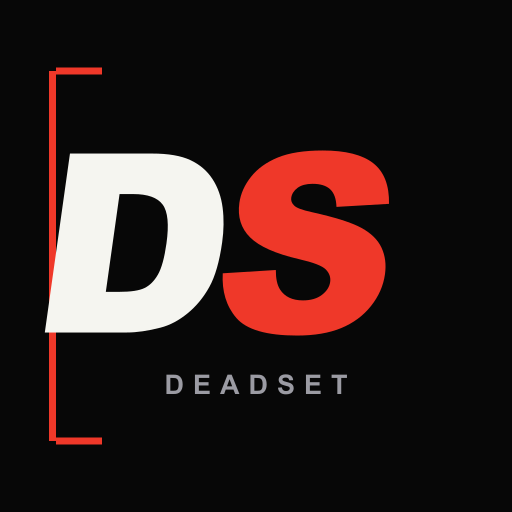
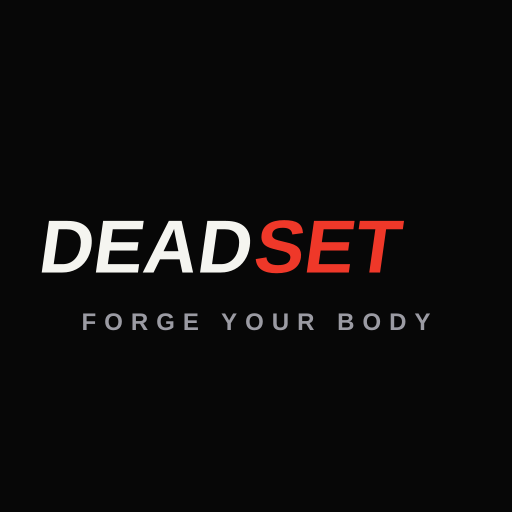
Replace the DS monogram in-app and animate the launch
The monogram was still everywhere the app is actually seen — only the
App Store listing had been switched back.

Loading screen
- index.html embedded the DS monogram as a base64 PNG, so it was the
  first thing shown on every launch. Replaced with the DEADSET wordmark
  drawn as live text: sharp at any size, no image bytes on the critical
  path, and animatable.
- The two halves slide in from opposite sides, the tagline rises behind
  them, then the mark settles into a slow glow. Set in system-ui, not a
  webfont, so it renders before anything has loaded — an earlier attempt
  used Impact, which iOS does not ship.
- prefers-reduced-motion now also resets opacity and transform. Killing
  only the animation would have left the logo permanently invisible,
  since the entrance animation is what reveals it.

Native launch screen
- The iOS splash was still Capacitor's stock blue X on white, in a
  black app. Replaced with a branded dark splash from a new
  generate-splash.mjs.
- The storyboard background was systemBackgroundColor, which resolves to
  pure white in light mode and flashed white on launch. Pinned to
  #0a0a0a so the handover to the animated boot screen is seamless.

Icons
- apple-touch-icon, icon-192 and icon-512 now carry the wordmark: these
  are the home-screen tile, which is "the app". The 16/32/48 favicons
  keep the monogram, where a wordmark collapses into a smudge.
- The App Store icon is left byte-identical to the restored original.
[…]

Changed region(s): [[0.0625, 0.125, 0.8438, 0.875], [0.3125, 0.7188, 0.625, 0.7812], [0.6562, 0.7188, 0.6875, 0.7812]]

diff --git a/index.html b/index.html
@@ -50,10 +50,12 @@
     />
     <style>
       /* Boot screen. Inline on purpose: it must paint before any stylesheet,
-         webfont or module has loaded, since those are exactly what can fail. The
-         mark is a data URI for the same reason — no request, no dependency. It
-         also avoids the wordmark being typeset in a font the device may not have
-         (the previous version asked for Impact, which iOS does not ship). */
+         webfont or module has loaded, since those are exactly what can fail.
+         The wordmark is set in system-ui rather than a webfont for the same
+         reason — no request, no dependency, and it renders identically whether
+         or not Inter has arrived. An earlier version asked for Impact, which
+         iOS does not ship; the stack below ends in the platform sans, so there
+         is always a real face to fall back to. */
       .boot {
         min-height: 100vh;
         min-height: 100dvh;
@@ -69,13 +71,65 @@
         padding: 24px;
         text-align: center;
       }
+      /* The wordmark is drawn as live text rather than a bitmap: it stays sharp
+         on every display, animates per-half, and costs no image bytes on the
+         critical path. */
       .boot-mark {
-        width: 88px;
-        height: 88px;
         display: block;
         margin: 0 auto;
-        border-radius: 20px;
-        animation: boot-breathe 2.4s ease-in-out infinite;
+        font-family:
+          Inter,
+          system-ui,
+          -apple-system,
+          sans-serif;
+        font-size: clamp(38px, 13vw, 62px);
+        font-weight: 900;
+        font-style: italic;
+        letter-spacing: -0.03em;
+        line-height: 1;
+        white-space: nowrap;
+        animation: boot-breathe 2.8s ease-in-out 0.9s infinite;
+      }
+      .boot-mark span {
+        display: inline-block;
+        opacity: 0;
+        animation: boot-slide 0.62s cubic-bezier(0.16, 0.84, 0.44, 1) forwards;
+      }
+      .boot-dead {
+        color: #f5f5f0;
+        transform: translateX(-26px);
+      }
+      .boot-set {
+        color: #e10600;
+        transform: translateX(26px);
+        animation-delay: 0.1s;
+      }
+      .boot-tagline {
+        margin: 14px 0 0;
+        color: #6a6a6a;
+        font-size: 10px;
+        font-weight: 800;
+        letter-spacing: 0.42em;
+        text-transform: uppercase;
+        text-indent: 0.42em;
+        opacity: 0;
+        animation: boot-rise 0.6s ease-out 0.44s forwards;
+      }
+      @keyframes boot-slide {
+        to {
+          opacity: 1;
+          transform: translateX(0);
+        }
+      }
+      @keyframes boot-rise {
+        from {
+          opacity: 0;
+          transform: translateY(7px);
+        }
+        to {
+          opacity: 1;
+          transform: translateY(0);
+        }
       }
       .boot-track {
         width: 132px;
@@ -107,8 +161,8 @@
           filter: drop-shadow(0 0 0 rgba(225, 6, 0, 0));
         }
         50% {
-          transform: scale(1.045);
-          filter: drop-shadow(0 6px 22px rgba(225, 6, 0, 0.32));
+          transform: scale(1.022);
+          filter: drop-shadow(0 6px 26px rgba(225, 6, 0, 0.34));
         }
       }
       @keyframes boot-sweep {
@@ -123,8 +177,17 @@
          vestibular disorders are not edge cases. */
       @media (prefers-reduced-motion: reduce) {
         .boot-mark,
+        .boot-mark span,
+        .boot-tagline,
         .boot-bar {
           animation: none;
+        }
+        /* Without the entrance animation these would stay at opacity 0 and the
+           logo would never appear at all. */
+        .boot-mark span,
+        .boot-tagline {
+          opacity: 1;
+          transform: none;
         }
         .boot-bar {
           width: 100%;
@@ -147,14 +210,10 @@
     <div id="root">
       <main class="boot">
         <div>
-          <img
-            class="boot-mark"
[1 lines of base64/hex data omitted]
-            width="88"
-            height="88"
-            alt="DEADSET"
-            decoding="sync"
-          />
+          <div class="boot-mark" role="img" aria-label="DEADSET">
+            <span class="boot-dead">DEAD</span><span class="boot-set">SET</span>
+          </div>
+          <p class="boot-tagline">Forge your body</p>
           <div class="boot-track"><div class="boot-bar"></div></div>
           <p class="boot-label">Loading your training</p>
         </div>
